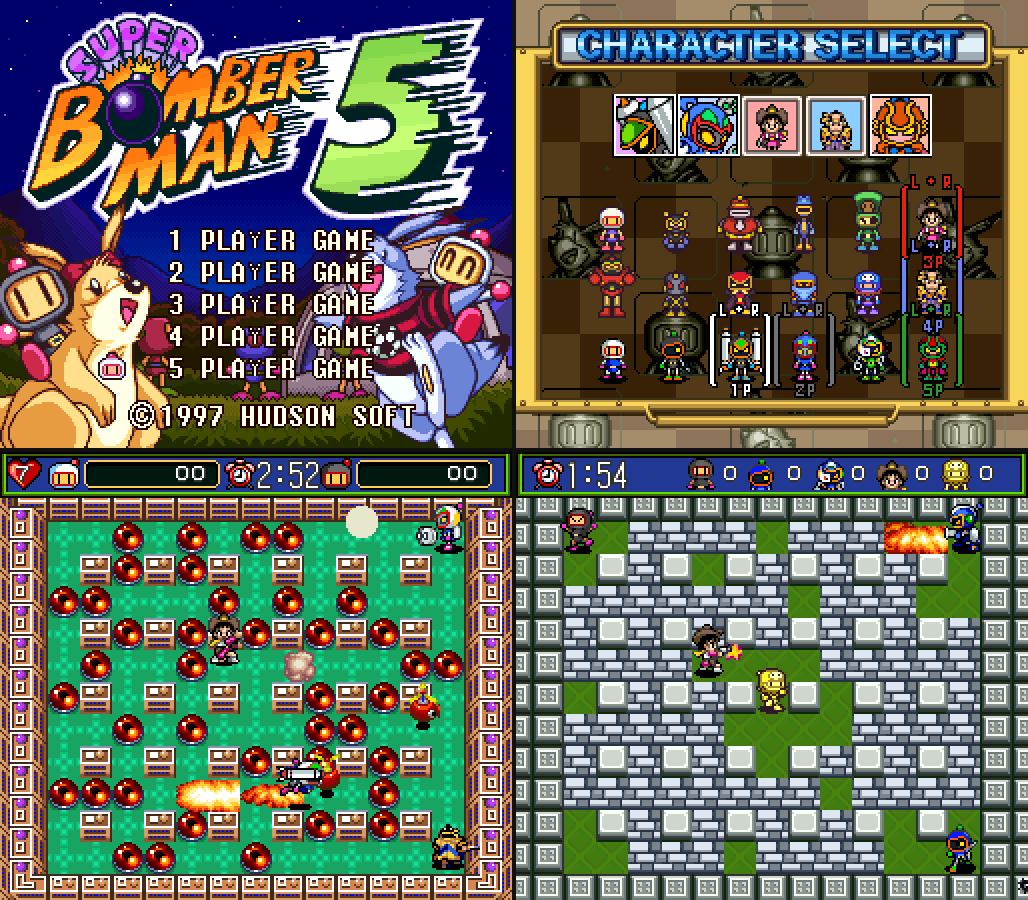
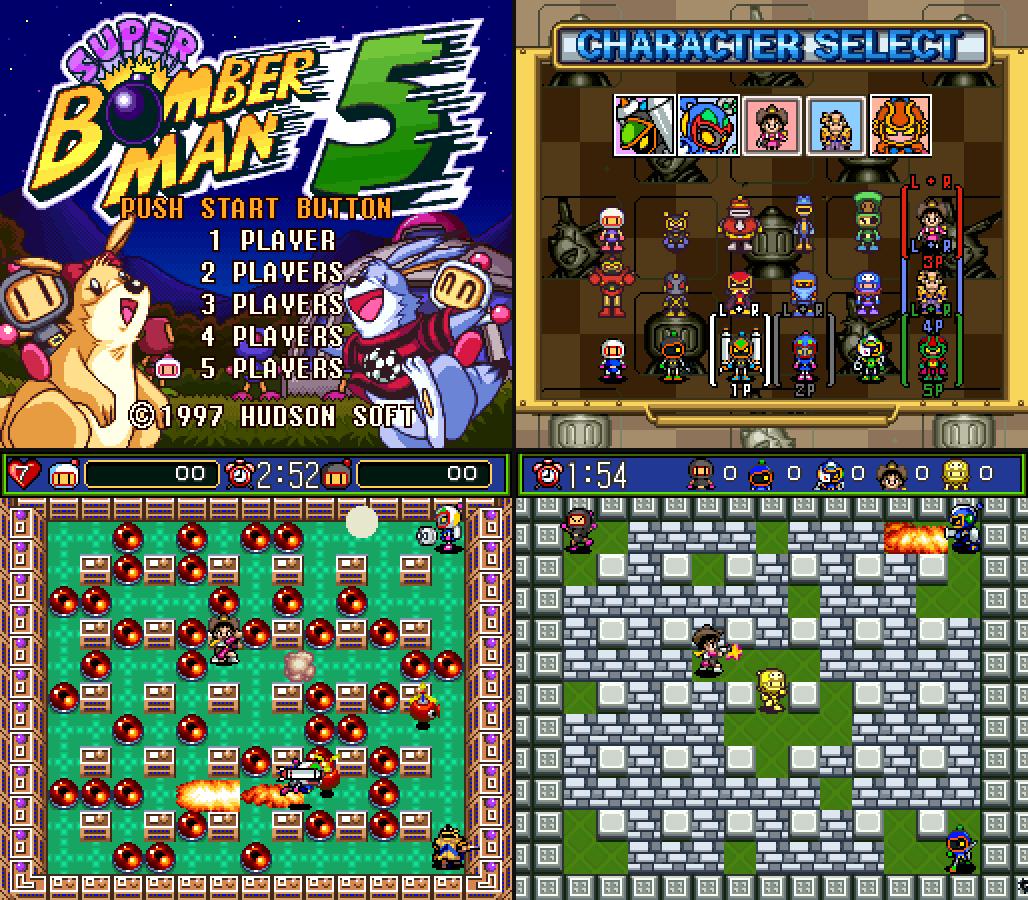
Prepare v0.12.1 with Normal menu fixes and cartridge Louie audio

diff --git a/tools/release-notes.py b/tools/release-notes.py
@@ -834,6 +834,80 @@ extraídos, saves ou dumps. Os dois WAVs adicionais autorizados do Black Louie
 seguem incluídos com origem documentada.
 '''
 
+
+if tuple(int(n) for n in version.split('.')) >= (0,12,1):
+    notes = f'''# Super Bomberman 5 v{version} - Normal menus, Back and native Louie audio
+
+## English
+
+- Normal Game's five-player menu uses **1 PLAYER / 2-5 PLAYERS**, the native
+  Y glyph and a corrected T outline in PUSH START BUTTON. The face cursor
+  follows the selected row in English and PT-BR. PT-BR digits retain the
+  original title-font weight and outline.
+- **B** from Normal character selection returns to the previous New Game or
+  Continue file list without freezing; repeated selection/cancel works.
+- Black Louie's egg/mount and dash sounds now use the cartridge SPC driver
+  (native commands $022E and $0235). Both external WAVs and their loader are
+  removed. No extracted audio is bundled.
+- The README's top-left screenshot now shows the corrected player menu.
+
+Includes all **twelve optional mods**, disabled by default, including Bomber
+Kings from v0.12.0. Bomber Kings requires your own supported Super Bomberman 4
+ROM selected on the Mods page; its graphics and sound data are read at runtime.
+Mod package versions remain 0.1.0; updating a manifest cannot update native code.
+
+Download **superbomberman5-{version}-windows-x64.zip** or experimental
+**superbomberman5-{version}-linux-x86_64.AppImage**, and verify **SHA256SUMS**.
+Extract Windows to a new writable folder. On Linux use chmod +x and run;
+without FUSE use --appimage-extract-and-run. Supply your own supported SB5 ROM
+and run **Generate & rebuild**, including when upgrading. Windows 10+ x64 or
+Linux x86_64/glibc 2.35+, several GB free and internet for initial tool downloads
+are required. Rust is not required by players.
+
+Windows/LLE regression routes covered New Game/Continue cancellation with
+1/2/5 seats, PT-BR on/off, repeated entry and stage confirmation. Black Louie
+egg/dash native commands and enemy push passed with P1 and P5/co-op/PT-BR;
+the maintainer confirmed the audio fix in gameplay. Native and Python tests
+and publication audits pass. Broader campaign, all mod combinations, physical
+multiplayer and Linux distributions remain unqualified. Partial recompilation:
+most logic uses the interpreter; no netplay. See docs/STATUS.md for evidence.
+
+Setup packs contain source, analyzer, launcher, licenses and manifests, never
+ROMs, generated game code, playable ROM-derived executables, extracted audio
+or graphics, saves or raw dumps. Supported SB5: JPN header, CRC32 c25ab56a,
+SHA-256 5251e6491872dc51879b630a34d76a92e29ea0c39026c4f8773c1fe006d047c4.
+
+## Português
+
+- Menu Normal de cinco jogadores com **1 PLAYER / 2-5 PLAYERS**, Y original,
+  contorno do T corrigido em PUSH START BUTTON e cursor junto da linha
+  selecionada, em inglês e PT-BR. Números PT-BR mantêm peso e contorno originais.
+- **B** na seleção de personagens do Normal retorna aos arquivos de New Game
+  ou Continue sem travar, inclusive ao entrar e cancelar repetidamente.
+- Montagem e arrancada do Black Louie usam os SFX nativos da ROM ($022E/$0235).
+  Os dois WAVs externos e o carregador foram removidos. Sem áudio extraído no pacote.
+- Nova captura da tela corrigida no quadro superior esquerdo do README.
+
+Mantém os **doze mods opcionais**, desligados por padrão, incluindo Bomber Kings
+  da v0.12.0. Esse mod usa sua própria ROM compatível do Super Bomberman 4,
+selecionada na página Mods; os dados são lidos durante a execução.
+
+Baixe o **ZIP Windows x64** ou **AppImage Linux x86_64 experimental** acima e
+confira **SHA256SUMS**. Extraia o Windows numa pasta nova e gravável. No Linux,
+chmod +x e execute; sem FUSE, --appimage-extract-and-run. Forneça sua ROM do SB5
+e faça **Generate & rebuild**, inclusive ao atualizar: o manifesto 0.1.0 não
+atualiza o código nativo. Requer Windows 10+ x64 ou Linux/glibc 2.35+, espaço
+livre e internet para as primeiras ferramentas; Rust não é necessário.
+
+Rotas Windows/LLE verificaram retorno de New Game/Continue com 1/2/5 jogadores,
+PT-BR ligado/desligado, reentrada e confirmação de fase. Ovo/arrancada/empurrão
+do Black foram verificados com P1 e P5/co-op/PT-BR, contando os comandos sonoros;
+o mantenedor confirmou o resultado no jogo. Campanha completa, todas as
+combinações, multiplayer físico e distribuições Linux seguem sem qualificação.
+Recompilação parcial, principalmente interpretada; sem netplay. Sem ROM, código
+ou executável gerado do jogo, gráficos/áudio extraídos, saves ou dumps.
+'''
+
 if args.output:
     args.output.parent.mkdir(parents=True, exist_ok=True)
     args.output.write_text(notes, encoding='utf-8', newline='\n')

diff --git a/README.md b/README.md
@@ -8,7 +8,7 @@ An unofficial, noncommercial **Super Bomberman 5** PC port prototype built with 
 
 <p align="center"><img src="docs/images/five-player-showcase.png" width="820" alt="Five-player Normal Game title menu; three-row character selection with Super Bomberman 4 Bomber Kings, Honey, Kotetsu and Subordinate Bomber in changed colors; Zone 1-1 with Jet, Lady, Honey, Kotetsu and Great using their abilities; Battle Mode stage 1 with Bazooka's fire beam and Honey's shot"></p>
 
-<p align="center"><b>New in v0.12.0:</b> Super Bomberman 4's Bomberman and the five Bomber Kings as a third picker row, read from your own SB4 ROM, with B + direction special abilities (also for Honey and Kotetsu).<br><b>Novidade da v0.12.0:</b> o Bomberman e os cinco Reis Bomber do Super Bomberman 4 numa terceira fileira da seleção, lidos da sua própria ROM do SB4, com habilidades especiais em B + direção (também para Honey e Kotetsu).</p>
+<p align="center"><b>Fixed in v0.12.1:</b> Normal menu typography and cursor, Back from character selection, and native Black Louie sound effects without WAV files.<br><b>Correções da v0.12.1:</b> fonte e cursor do menu Normal, retorno com B na seleção de personagens e sons nativos do Black Louie, sem WAVs.</p>
 
 ## English
 
@@ -41,15 +41,15 @@ An unofficial, noncommercial **Super Bomberman 5** PC port prototype built with 
 4. Select **Generate & rebuild**. The native analyzer is included; installing Rust is unnecessary for release users. Game code is generated and compiled locally.
 5. Run the resulting game under `build/`; configure controls in the launcher.
 
-Upgrading: extract v0.12.0 into a new folder and run Generate & rebuild again with your own ROM; an older generated executable cannot load the new native mod code.
+Upgrading: extract v0.12.1 into a new folder and run Generate & rebuild again with your own ROM; an older generated executable cannot load the new native mod code.
 
 Requires Windows 10 or newer, x64. Leave several GB free for extraction, tools and build output. Open the root executable to start release setup; the repository's developer `play.cmd` is for local source builds.
 
 ### Linux AppImage
 
-Download **superbomberman5-0.12.0-linux-x86_64.AppImage** from [v0.12.0](https://github.com/MauricioSuporte/SuperBomberman5SNESRecomp/releases/tag/v0.12.0), make it executable (`chmod +x superbomberman5-0.12.0-linux-x86_64.AppImage`) and run it. The AppImage copies its ROM-free setup into `${XDG_DATA_HOME:-~/.local/share}/superbomberman5/0.12.0` on first launch. Select your own supported ROM and use **Generate & rebuild**; subsequent launches open the locally rebuilt game. Rust is not required. Internet is needed for the first portable tool download. Linux x86_64, glibc 2.35+ (Ubuntu 22.04 baseline), desktop graphics/audio libraries and several GB free are required. If FUSE is unavailable, run with `--appimage-extract-and-run`. Keep the writable version folder to retain local builds and settings; ROM and generated game data are never part of the download. Linux distribution and full-campaign coverage remain limited; see [validation](docs/STATUS.md).
+Download **superbomberman5-0.12.1-linux-x86_64.AppImage** from [v0.12.1](https://github.com/MauricioSuporte/SuperBomberman5SNESRecomp/releases/tag/v0.12.1), make it executable (`chmod +x superbomberman5-0.12.1-linux-x86_64.AppImage`) and run it. The AppImage copies its ROM-free setup into `${XDG_DATA_HOME:-~/.local/share}/superbomberman5/0.12.1` on first launch. Select your own supported ROM and use **Generate & rebuild**; subsequent launches open the locally rebuilt game. Rust is not required. Internet is needed for the first portable tool download. Linux x86_64, glibc 2.35+ (Ubuntu 22.04 baseline), desktop graphics/audio libraries and several GB free are required. If FUSE is unavailable, run with `--appimage-extract-and-run`. Keep the writable version folder to retain local builds and settings; ROM and generated game data are never part of the download. Linux distribution and full-campaign coverage remain limited; see [validation](docs/STATUS.md).
 
-Windows users download the **superbomberman5-0.12.0-windows-x64.zip** setup pack. Both formats include the same twelve optional mods, disabled by default. Upgrading from an earlier version: extract v0.12.0 into a new folder (or the AppImage creates a new 0.12.0 folder) and run **Generate & rebuild** again so the new native plugins are compiled. Check the release's **SHA256SUMS** before use.
+Windows users download the **superbomberman5-0.12.1-windows-x64.zip** setup pack. Both formats include the same twelve optional mods, disabled by default. Upgrading from an earlier version: extract v0.12.1 into a new folder (or the AppImage creates a new 0.12.1 folder) and run **Generate & rebuild** again so the new native plugins are compiled. Check the release's **SHA256SUMS** before use.
 
 ### Supported ROM
 
@@ -69,7 +69,7 @@ The developer's local filename is `Super Bomberman 5 (USA).sfc`, but its header 
 
 **Louie improvements (v0.11.0)** adds Yellow bomb kicks and chain transfers, a three-second Red punch freeze for Normal enemies, and Black eggs plus a protected pushing dash (Y). Red enemy hits use the native player-hit sound. Current source plays Black acquisition/dash sounds through the cartridge audio driver; rebuild the host to apply this correction. [Controls, audio and validation](docs/LOUIE_IMPROVEMENTS.md).
 
-The **v0.12.0 setup packs** include the twelve optional mods below, each at mod version **0.1.0** and disabled by default. Complete **Generate & rebuild**, open **Mods**, enable the desired features and select Play. Each setup package contains the executable, launcher resources, analyzer, source and all twelve preinstalled mods; no separate mod download or import is needed. `FILE_SHA256SUMS` inside each setup payload covers its packaged files. They require the corresponding native plugins in the host; importing a package cannot update an older executable.
+The **v0.12.1 setup packs** include the twelve optional mods below, each at mod version **0.1.0** and disabled by default. Complete **Generate & rebuild**, open **Mods**, enable the desired features and select Play. Each setup package contains the executable, launcher resources, analyzer, source and all twelve preinstalled mods; no separate mod download or import is needed. `FILE_SHA256SUMS` inside each setup payload covers its packaged files. They require the corresponding native plugins in the host; importing a package cannot update an older executable.
 
 | Mod / category | Feature and use |
 |---|---|
@@ -78,7 +78,7 @@ The **v0.12.0 setup packs** include the twelve optional mods below, each at mod 
 | **Normal Game — character selection** / **Gameplay** | Enable **Choose a character in Normal Game** to open the original Battle character picker after confirming a Normal save file. Use the D-pad and A to choose; B returns to file selection. The campaign uses the chosen character. Requires host v0.3.0 or newer. [Instructions and validation](docs/NORMAL_CHARACTERS.md). |
 | **Normal Game — infinite time** / **Gameplay** | Enable **Unlimited time in Normal Game** for the native `-:--` timer without timeout deaths. Disabled by default. Requires host v0.4.3 or newer. [Details and validation](docs/INFINITE_TIME.md). |
 | **Character selection — color controls** / **Gameplay** | Enable **Choose character colors with L and R** for white, black, red, blue, green and yellow palettes for the native bomber choices, including Subordinate when its mod is enabled. R cycles forward, L backward; A confirms. Starts: P1 white, P2 black, P3 red, P4 blue, P5 green. The v0.8.1 host fixes palette changes affecting the figure below. Works in Battle and in Normal when the character selection mod is enabled. Default keyboard: C/V; gamepad: LB/RB (L1/R1). Requires host v0.4.0 or newer. [Controls and validation](docs/SELECTION_COLORS.md). |
-| **Normal Game — five players** / **Gameplay** | Enable **Play Normal Game with up to five players** and choose 1–5 PLAYER GAME on the title. Shared lives start at players + 2 (3–7); a dead player presses Start to spend a life and rejoin while a teammate is alive. Any player finishes a stage through an exit, items carry over for every seat, P3–P5 spawn on safe floor and take enemy contact damage. Boss stages with rival bombers seat up to four players (three with two rivals); the others return in the next stage. With the character and color mods, each seat picks its own character and color from New Game or Continue. Requires host v0.5.0 or newer. [Instructions, tests and limits](docs/NORMAL_COOP.md). |
+| **Normal Game — five players** / **Gameplay** | Enable **Play Normal Game with up to five players** and choose 1 PLAYER / 2–5 PLAYERS on the title. Shared lives start at players + 2 (3–7); a dead player presses Start to spend a life and rejoin while a teammate is alive. Any player finishes a stage through an exit, items carry over for every seat, P3–P5 spawn on safe floor and take enemy contact damage. Boss stages with rival bombers seat up to four players (three with two rivals); the others return in the next stage. With the character and color mods, each seat picks its own character and color from New Game or Continue. Requires host v0.5.0 or newer. [Instructions, tests and limits](docs/NORMAL_COOP.md). |
 | **Subordinate Bomber — playable character** / **Gameplay** | Enable **Play as Subordinate Bomber** to pick the Zone 3-D rival from the X/secret yellow Bomberman cell (fifth bottom-row column with Honey/Kotetsu) of the character selection, in Battle and, with the Normal character selection mod, in Normal Game. With the color controls mod, L/R choose its six palettes from the cartridge; its portrait and Battle HUD faces (alive and defeated) follow the chosen color. Requires host v0.6.0 or newer. [Instructions, tests and limits](docs/SUBORDINATE_BOMBER.md). |
 | **Honey and Kotetsu — playable characters** / **Gameplay** | Enable **Play as Honey and Kotetsu** for a six-column character selection: the stock columns move closer, Honey (the cowgirl boss of the Zone 1-3 secret stages) ends the top row and Kotetsu the bottom row, next to Subordinate Bomber/X. They play as Bomberman (same rules and items) and use their own walking, attack, victory/draw, death and Louie-riding poses, portrait and HUD face, all decoded from your ROM. Battle and, with the Normal character selection mod, Normal Game. They have a single cartridge palette (L/R do not recolor them). Requires host v0.9.0. [Instructions, tests and limits](docs/HONEY_KOTETSU.md). |
 | **Bomber Kings — Super Bomberman 4 characters** / **Gameplay** | Enable **Play as the Bomber Kings** and select **your own Super Bomberman 4 ROM** (Japanese release, checked by SHA-256) in the mod's **Super Bomberman 4 ROM** item on the Mods page. The selection gets three rows: the stock rows move up, Honey/Kotetsu end them and a new row holds Super Bomberman 4's Bomberman, Hammer, Jet, Lady, Bazooka and Great Bomber, drawn from that ROM at runtime with their five SB4 colors (L/R with the color mod). Hold **B** and press a **direction** for each character's special ability ported from Super Bomberman 4 with its timings, poses and graphics (Hammer's mace swing, Jet's flight with a fire trail, untouchable by enemies, Lady's laser, Bazooka's fire beam, Great's invulnerability) plus Honey's shot and Kotetsu's sword cut from their boss fight; Bazooka, Jet, Great, Honey and Kotetsu then move at half speed for about 10.7 s, as in Super Bomberman 4. The picker shows each Bomber King's own SB4 portrait; riding and Bad Bomber use SB4's own poses, and the abilities play SB4's sound effects. B alone still detonates remote bombs; riding Louie keeps B native. Abilities hit enemies in Normal Game (never other players) and other players or the other team in Battle. Requires host v0.12.0; the Super Bomberman 4 ROM is never included. [Instructions, tests and limits](docs/BOMBER_KINGS.md). |
@@ -92,7 +92,7 @@ ZONE1-1: left **Z1-2**, center **Z1-5**, right **Z1-7**. Hints appear only with 
 
 v0.12.0 adds the **Bomber Kings** mod: a third picker row with Super Bomberman 4's Bomberman, Hammer, Jet, Lady, Bazooka and Great Bomber drawn from your own Super Bomberman 4 ROM (selected on the Mods page, verified by SHA-256, never distributed), five SB4 colors each with the color mod, and B + direction abilities ported from Super Bomberman 4 with its timings, poses and sound effects; Honey and Kotetsu get their boss shot and sword thrust. Abilities hit enemies in Normal Game and opponents in Battle; Jet is immune to enemy contact while flying.
 
-Current source builds also use **1 PLAYER / 2–5 PLAYERS** in the English Normal menu, with the native Y and cleaned T outline. B from the Normal character picker rebuilds the previous file list and supports reentry. Rebuild the source host to apply these corrections.
+v0.12.1 uses **1 PLAYER / 2–5 PLAYERS** in the English Normal menu, with the native Y and cleaned T outline. B from the Normal character picker rebuilds the previous file list and supports reentry. Generate & rebuild with v0.12.1 to apply these corrections.
 
 v0.11.1 fixes player-count digits in the PT-BR Normal Game menu: 1/2 use original cartridge glyphs and 3–5 use authored extensions matching their weight and outline. The cursor follows the selected row with the native eight-pixel gap. Rebuild with this host to apply the fix; the mod package remains 0.1.0.
 
@@ -179,21 +179,21 @@ Protótipo não oficial e não comercial de port de **Super Bomberman 5** para P
 
 Requer Windows 10 ou superior, x64, e alguns GB livres. **Nenhuma ROM, código gerado da ROM ou recurso extraído acompanha o download.** O arquivo de desenvolvimento tem “USA” no nome, porém o cabeçalho indica **JPN**. Confira os hashes em [Supported ROM](#supported-rom); o nome do arquivo não garante compatibilidade.
 
-Ao atualizar para a v0.12.0, extraia numa pasta nova e faça **Generate & rebuild** novamente com sua ROM; o executável gerado da versão anterior não recebe o novo código nativo por meio de um manifesto.
+Ao atualizar para a v0.12.1, extraia numa pasta nova e faça **Generate & rebuild** novamente com sua ROM; o executável gerado da versão anterior não recebe o novo código nativo por meio de um manifesto.
 
 ### AppImage Linux
 
 Build CI Ubuntu 22.04 e geração/rebuild local no Ubuntu 24.04/WSL passaram; a rota de 3.628 frames LLE até a primeira fase terminou com vídeo/áudio dummy. Launcher inicializado em modo offscreen. Dispositivos físicos e outras distribuições seguem não qualificados.
 
-Baixe **superbomberman5-0.12.0-linux-x86_64.AppImage** na [v0.12.0](https://github.com/MauricioSuporte/SuperBomberman5SNESRecomp/releases/tag/v0.12.0), dê permissão de execução e execute. Sem FUSE, use --appimage-extract-and-run. O setup é copiado para a pasta XDG de dados da versão (padrão ~/.local/share/superbomberman5/0.12.0), onde você fornece sua ROM e usa **Generate & rebuild**. Nas próximas aberturas, o AppImage usa o jogo gerado localmente. Requer Linux x86_64 com glibc 2.35+, bibliotecas de vídeo/áudio do desktop, internet para as primeiras ferramentas e alguns GB livres. Rust não é necessário. Preserve a pasta gravável para manter builds e configurações. Confira SHA256SUMS na release. Compatibilidade ampla e campanha completa continuam não qualificadas.
+Baixe **superbomberman5-0.12.1-linux-x86_64.AppImage** na [v0.12.1](https://github.com/MauricioSuporte/SuperBomberman5SNESRecomp/releases/tag/v0.12.1), dê permissão de execução e execute. Sem FUSE, use --appimage-extract-and-run. O setup é copiado para a pasta XDG de dados da versão (padrão ~/.local/share/superbomberman5/0.12.1), onde você fornece sua ROM e usa **Generate & rebuild**. Nas próximas aberturas, o AppImage usa o jogo gerado localmente. Requer Linux x86_64 com glibc 2.35+, bibliotecas de vídeo/áudio do desktop, internet para as primeiras ferramentas e alguns GB livres. Rust não é necessário. Preserve a pasta gravável para manter builds e configurações. Confira SHA256SUMS na release. Compatibilidade ampla e campanha completa continuam não qualificadas.
 
-No Windows, baixe **superbomberman5-0.12.0-windows-x64.zip**. Para atualizar de uma versão anterior, extraia a v0.12.0 numa pasta nova (o AppImage cria a pasta 0.12.0) e use **Generate & rebuild** de novo para compilar os novos plugins nativos.
+No Windows, baixe **superbomberman5-0.12.1-windows-x64.zip**. Para atualizar de uma versão anterior, extraia a v0.12.1 numa pasta nova (o AppImage cria a pasta 0.12.1) e use **Generate & rebuild** de novo para compilar os novos plugins nativos.
 
 ### Mods incluídos
 
 **Louie improvements (v0.11.0)** adiciona chute de bombas e transferências em cadeia para Yellow, paralisia de três segundos nos inimigos do Normal pelo Red e Black nos ovos com arrancada protegida (Y). Red usa o SFX nativo de acerto. O código atual usa os SFX do cartucho para montagem e arrancada do Black; recompile o host para aplicar a correção. [Controles, áudio e validação](docs/LOUIE_IMPROVEMENTS.md).
 
-Os **pacotes Windows e Linux v0.12.0** incluem os doze mods opcionais abaixo, todos na versão de mod **0.1.0** e desabilitados por padrão. Conclua **Generate & rebuild**, abra **Mods**, ative as funções desejadas e selecione Play. Cada pacote inclui executável, recursos do launcher, analisador, fontes e os doze mods pré-instalados; não é necessário baixar nem importar mods separados. O arquivo `FILE_SHA256SUMS` dentro do setup cobre os arquivos do pacote. Eles contêm apenas dados e dependem dos plugins nativos do host; importar um pacote não atualiza um executável antigo.
+Os **pacotes Windows e Linux v0.12.1** incluem os doze mods opcionais abaixo, todos na versão de mod **0.1.0** e desabilitados por padrão. Conclua **Generate & rebuild**, abra **Mods**, ative as funções desejadas e selecione Play. Cada pacote inclui executável, recursos do launcher, analisador, fontes e os doze mods pré-instalados; não é necessário baixar nem importar mods separados. O arquivo `FILE_SHA256SUMS` dentro do setup cobre os arquivos do pacote. Eles contêm apenas dados e dependem dos plugins nativos do host; importar um pacote não atualiza um executável antigo.
 
 | Mod / categoria | Função e uso |
 |---|---|
@@ -216,7 +216,7 @@ ZONE1-1: esquerda **Z1-2**, centro **Z1-5**, direita **Z1-7**. Cada dica aparece
 
 A v0.12.0 traz o mod **Bomber Kings**: uma terceira fileira na seleção com o Bomberman, o Hammer, o Jet, a Lady, o Bazooka e o Great Bomber do Super Bomberman 4, desenhados a partir da sua própria ROM do Super Bomberman 4 (escolhida na página Mods, conferida pelo SHA-256 e nunca distribuída), cinco cores do SB4 para cada um com o mod de cores e habilidades em B + direção portadas do Super Bomberman 4 com os mesmos tempos, poses e efeitos sonoros; Honey e Kotetsu ganham o tiro e a estocada da luta de chefe. As habilidades acertam inimigos no Normal Game e adversários no Battle; o Jet é imune ao contato com inimigos durante o voo.
 
-Os builds atuais de fonte também usam **1 PLAYER / 2–5 PLAYERS** no menu em inglês, com Y original e contorno do T corrigido. B no seletor de personagens do Normal reconstrói a lista anterior de arquivos e permite reabrir o seletor. Recompile o host de fonte para aplicar estas correções.
+A v0.12.1 usa **1 PLAYER / 2–5 PLAYERS** no menu em inglês, com Y original e contorno do T corrigido. B no seletor de personagens do Normal reconstrói a lista anterior de arquivos e permite reabrir o seletor. Faça Generate & rebuild com a v0.12.1 para aplicar estas correções.
 
 A v0.11.1 corrige os números no menu Normal em PT-BR: 1/2 usam a fonte original da ROM; 3–5 são extensões autorais com o mesmo peso e contorno. O cursor acompanha a linha selecionada, com o espaçamento original de oito pixels. Faça Generate & rebuild com este host; o pacote do mod continua 0.1.0.
 

diff --git a/docs/PUBLISHING.md b/docs/PUBLISHING.md
@@ -1,10 +1,10 @@
 # Versions and publication / Versões e publicação
 
-Public repository: `MauricioSuporte/SuperBomberman5SNESRecomp`. VERSION is **0.12.0**. Publish prereleases while full-game accuracy remains unqualified. Preserve existing published tags and assets.
+Public repository: `MauricioSuporte/SuperBomberman5SNESRecomp`. VERSION is **0.12.1**. Publish prereleases while full-game accuracy remains unqualified. Preserve existing published tags and assets.
 
 ## Release contents
 
-Publish **superbomberman5-0.12.0-windows-x64.zip**, **superbomberman5-0.12.0-linux-x86_64.AppImage** and **SHA256SUMS**. Both are ROM-independent setup hosts with source, native analyzer, launcher resources, licenses and twelve optional, default-disabled mods: PT-BR menus and completion screens, Normal character selection, L/R colors, infinite Normal timer, five-player Normal Game, Subordinate Bomber, Pause — exit & draw, Normal portal destinations, Honey and Kotetsu, Gold Battle, Louie improvements and Bomber Kings. Black Louie uses native cartridge sound effects; no external WAVs are included. Former audio hashes are grandfathered for auditing historical commits only, never current source or new packages. Bomber Kings reads Super Bomberman 4 graphics, palettes and sound driver at runtime from the player's own SB4 ROM (selected on the Mods page, SHA-256 checked); no SB4 data is in the repository or the packages — audit for it. The playable executable is generated only on the player's machine. Linux is experimental; see STATUS.md for exact evidence.
+Publish **superbomberman5-0.12.1-windows-x64.zip**, **superbomberman5-0.12.1-linux-x86_64.AppImage** and **SHA256SUMS**. Both are ROM-independent setup hosts with source, native analyzer, launcher resources, licenses and twelve optional, default-disabled mods: PT-BR menus and completion screens, Normal character selection, L/R colors, infinite Normal timer, five-player Normal Game, Subordinate Bomber, Pause — exit & draw, Normal portal destinations, Honey and Kotetsu, Gold Battle, Louie improvements and Bomber Kings. Black Louie uses native cartridge sound effects; no external WAVs are included. Former audio hashes are grandfathered for auditing historical commits only, never current source or new packages. Bomber Kings reads Super Bomberman 4 graphics, palettes and sound driver at runtime from the player's own SB4 ROM (selected on the Mods page, SHA-256 checked); no SB4 data is in the repository or the packages — audit for it. The playable executable is generated only on the player's machine. Linux is experimental; see STATUS.md for exact evidence.
 
 Build from a separate clean checkout with pinned submodules, no src/gen/*.c or recomp/funcs.h, `SNESRECOMP_SETUP_HOST=ON`, `SNESRECOMP_FRAME_IMPL=LLE` and the test input fixture OFF. Never package the development game executable or local ROM/save/capture data.
 
@@ -44,7 +44,7 @@ The Windows packager remains scripts/package_release.sh, followed by tools/final
 
 ```bash
 python3 tools/package-appimage.py \
-  --zip dist/superbomberman5-0.12.0-linux-x64.zip \
+  --zip dist/superbomberman5-0.12.1-linux-x64.zip \
   --build-dir build-ci \
   --analyzer snesrecomp/recompiler-rs/target/release/snesrecomp-analyze \
   --rust-sysroot "$(rustup run 1.97.1 rustc --print sysroot)" \
@@ -65,7 +65,7 @@ Verify the default branch, tag target, successful workflow, prerelease state, UT
 
 Toda nova release exige README.md atualizado nas duas línguas, com informações úteis: downloads, formatos, instalação/atualização, recursos, requisitos e limites reais de validação. Atualize VERSION, STATUS.md, este documento e o gerador de notas.
 
-A v0.12.0 distribui **ZIP Windows x64**, **AppImage Linux x86_64 experimental** e **SHA256SUMS**. Ambos incluem setup sem ROM, fontes, analisador, licenças e os doze mods opcionais desligados por padrão (incluindo Bomber Kings, que lê o Super Bomberman 4 da ROM do próprio jogador; nada do SB4 entra nos pacotes). O jogo é gerado apenas na máquina do jogador. Use checkout limpo, LLE e setup host; nunca publique o executável de desenvolvimento, ROM, código gerado, saves ou capturas.
+A v0.12.1 distribui **ZIP Windows x64**, **AppImage Linux x86_64 experimental** e **SHA256SUMS**. Ambos incluem setup sem ROM, fontes, analisador, licenças e os doze mods opcionais desligados por padrão (incluindo Bomber Kings, que lê o Super Bomberman 4 da ROM do próprio jogador; nada do SB4 entra nos pacotes). O jogo é gerado apenas na máquina do jogador. Use checkout limpo, LLE e setup host; nunca publique o executável de desenvolvimento, ROM, código gerado, saves ou capturas.
 
 A workflow Release é manual e só publica quando os dois builds e verificações passam. Valide os pacotes extraídos, analisador, primeira abertura/reabertura e geração/rebuild local. O AppImage copia o setup para a pasta XDG gravável da versão e reutiliza o jogo gerado; sem FUSE, use --appimage-extract-and-run. Registre plataforma, rota/frames e limitações no STATUS.md. Preserve fontes, licenças, revisões e checksums. Não reescreva tags ou assets públicos automaticamente. Confirme notas UTF-8, estado de pré-release e hashes dos arquivos no GitHub.
 

diff --git a/docs/STATUS.md b/docs/STATUS.md
@@ -1,5 +1,16 @@
 # Super Bomberman 5: estado do protótipo
 
+## v0.12.1 release candidate - 2026-10-16
+
+Based on published v0.12.0, preserving all twelve mods and pinned dependencies.
+Includes English/PT-BR player-menu typography/cursor corrections, New Game and
+Continue picker cancellation, and cartridge Black Louie SFX without bundled
+WAVs. The maintainer confirmed the audio fix in local gameplay. The top-left
+README frame was recaptured from actual Windows/LLE output; other frames are
+unchanged. Prior runtime evidence below predates integration with Bomber Kings;
+release package generation/rebuild evidence is recorded after package checks.
+
+
 ## v0.12.0 published / Publicada — 2026-10-16
 
 [Prerelease v0.12.0](https://github.com/MauricioSuporte/SuperBomberman5SNESRecomp/releases/tag/v0.12.0),

diff --git a/docs/images/README.md b/docs/images/README.md
@@ -1,5 +1,15 @@
 # README images / Imagens do README
 
+The top-left frame was recaptured on Windows/LLE for v0.12.1 on 2026-10-16:
+corrected 1 PLAYER / 2-5 PLAYERS, native Y/T font and cursor next to row five.
+The other three frames below remain from v0.12.0. The montage uses only actual
+runtime screenshots, with nearest-neighbour scaling and no generated artwork.
+
+O quadro superior esquerdo foi recapturado no Windows/LLE para a v0.12.1,
+com singular/plural, fonte e cursor corrigidos. Os outros três quadros foram
+preservados da v0.12.0. São capturas reais da execucao do jogo.
+
+
 `five-player-showcase.png` (1028 × 900) combines four frames captured from
 this project's own Linux LLE builds on 2026-10-16 (v0.12.0 sources), at the
 maintainer's explicit request, to show the optional features on the
